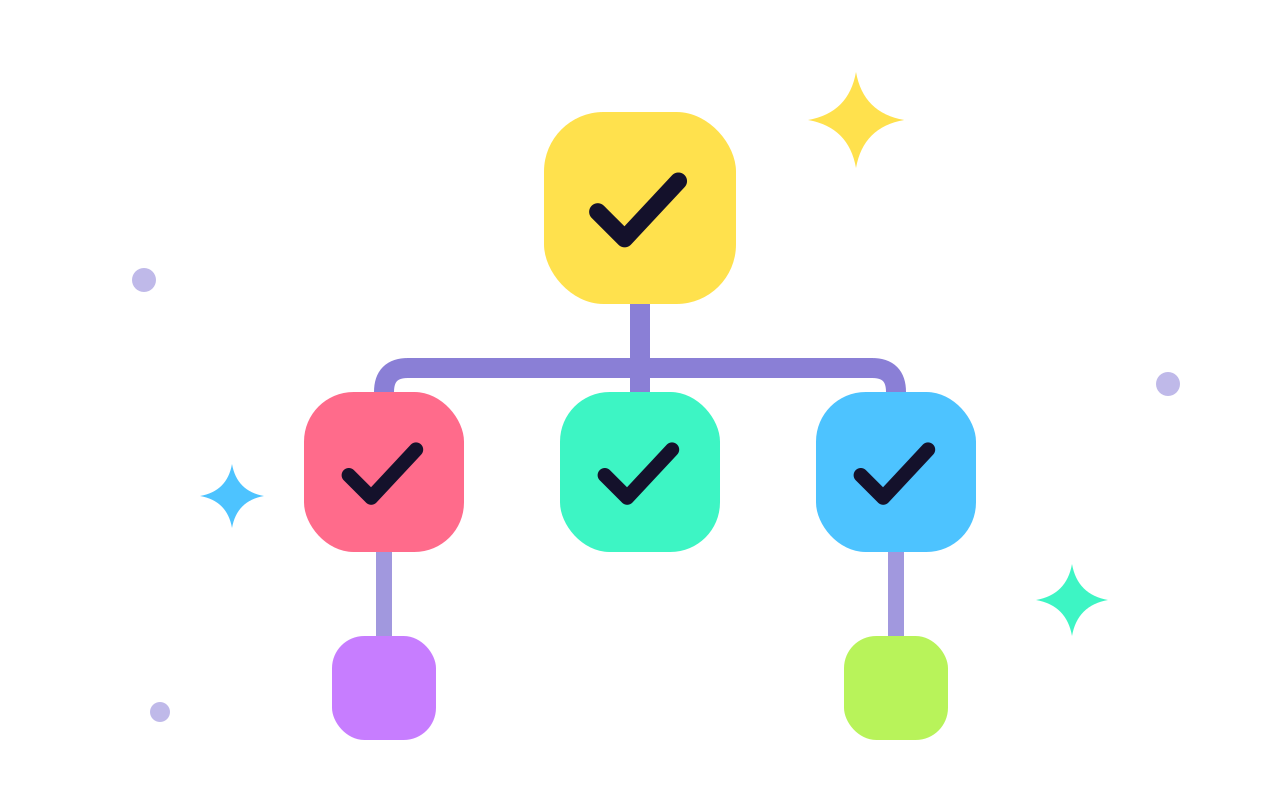
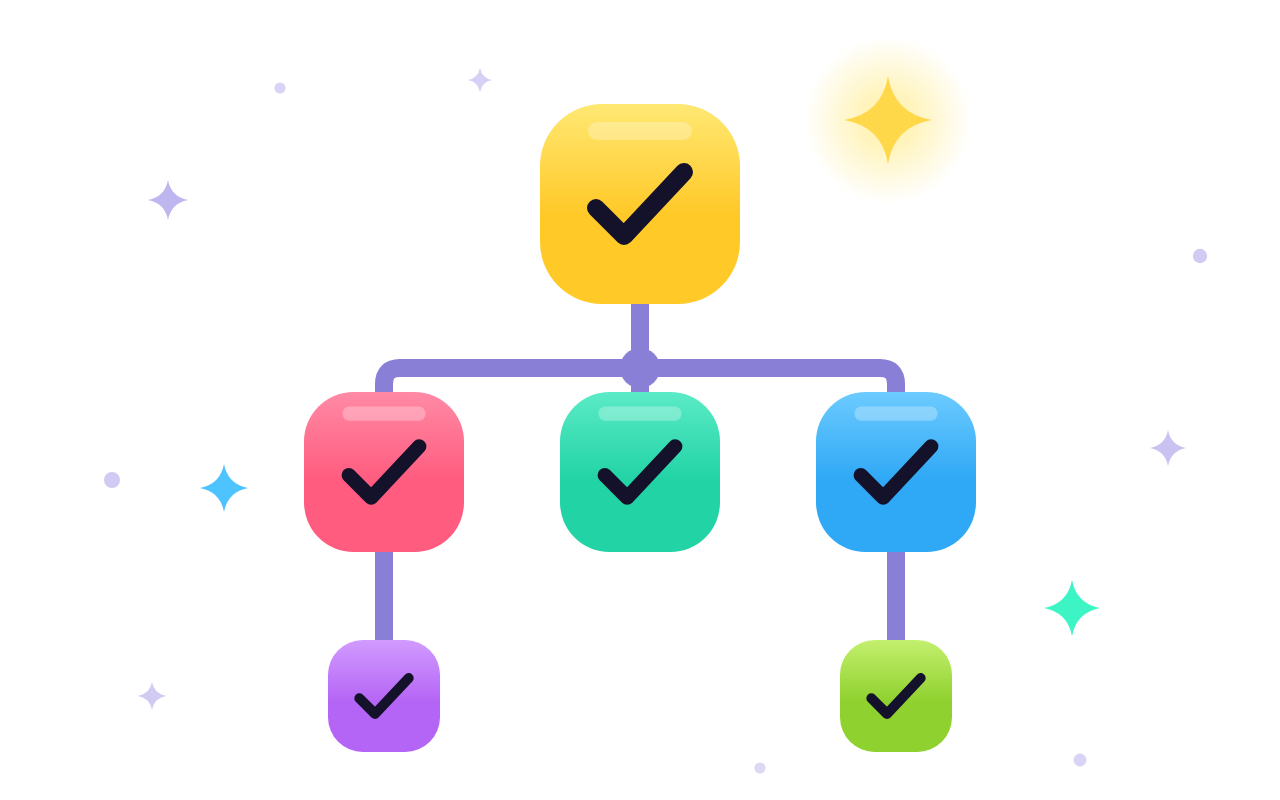
Redraw the artwork in HD and draw it with smooth edges
The empty-state illustrations, the Reports banners, the app icon and the
logo are redrawn: cleaner shapes, lit nodes, and the dots as a proper
starfield with one bright star. The SVG sources live in the brand kit.

The app now shows high-resolution PNGs decoded at the size they're
shown, taking display scaling into account. XAML's own downscaling, and
its SVG renderer, left jagged edges; that already affected the logo and
banner, which were SVG.

diff --git a/Helpers/EmbeddedAssets.cs b/Helpers/EmbeddedAssets.cs
@@ -7,19 +7,16 @@ public static class EmbeddedAssets
 {
     private static Stream? Open(string name) => typeof(EmbeddedAssets).Assembly.GetManifestResourceStream(name);
 
-    /// <summary>Null when there is no such image.</summary>
-    public static BitmapImage? Png(string name)
+    /// <summary>
+    /// The image decoded at <paramref name="width"/> (in view pixels, so the display scale is applied), or null when
+    /// there is no such image. Decoding at the shown size is what keeps the edges smooth: the decoder scales down
+    /// properly, whereas XAML shrinking a large image, and its SVG renderer, both leave jagged edges.
+    /// </summary>
+    public static BitmapImage? Png(string name, double width)
     {
         if (Open(name) is not { } stream) return null;
-        var image = new BitmapImage();
+        var image = new BitmapImage { DecodePixelType = DecodePixelType.Logical, DecodePixelWidth = (int)Math.Ceiling(width) };
         _ = image.SetSourceAsync(stream.AsRandomAccessStream());
-        return image;
-    }
-
-    public static SvgImageSource Svg(string name)
-    {
-        var image = new SvgImageSource();
-        _ = image.SetSourceAsync(Open(name)!.AsRandomAccessStream());
         return image;
     }
 

diff --git a/Views/ReportsPage.xaml.cs b/Views/ReportsPage.xaml.cs
@@ -27,6 +27,7 @@ public sealed partial class ReportsPage : Page
         Banner.Visibility = highContrast ? Visibility.Collapsed : Visibility.Visible;
         PlainHeader.Visibility = highContrast ? Visibility.Visible : Visibility.Collapsed;
 
-        BannerImage.Source = EmbeddedAssets.Svg(ActualTheme == ElementTheme.Light ? "ReportsHeaderLight.svg" : "ReportsHeader.svg");
+        // Shown at most 432 view pixels wide, the width of the settings column.
+        BannerImage.Source = EmbeddedAssets.Png(ActualTheme == ElementTheme.Light ? "ReportsHeaderLight.png" : "ReportsHeader.png", 432);
     }
 }

diff --git a/Views/Controls/IscEmptyState.xaml.cs b/Views/Controls/IscEmptyState.xaml.cs
@@ -19,7 +19,7 @@ public sealed partial class IscEmptyState : UserControl
         set
         {
             _illustration = value;
-            IllustrationImage.Source = EmbeddedAssets.Png($"{value}.png");
+            IllustrationImage.Source = EmbeddedAssets.Png($"{value}.png", IllustrationImage.Width);
             IllustrationImage.Visibility = IllustrationImage.Source is null ? Visibility.Collapsed : Visibility.Visible;
         }
     }

diff --git a/Views/Controls/IscLogo.xaml.cs b/Views/Controls/IscLogo.xaml.cs
@@ -24,13 +24,13 @@ public sealed partial class IscLogo : UserControl
     public IscLogo()
     {
         InitializeComponent();
-        Icon.Source = EmbeddedAssets.Svg("Logo.svg");
         ApplySize();
     }
 
     private void ApplySize()
     {
         Icon.Width = Icon.Height = Size;
+        Icon.Source = EmbeddedAssets.Png("Logo.png", Size);
         Wordmark.FontSize = Size * 0.75;
         Panel.Spacing = Size * 0.3;
     }

diff --git a/Views/DashboardPage.xaml.cs b/Views/DashboardPage.xaml.cs
@@ -14,7 +14,7 @@ public sealed partial class DashboardPage : Page, IReloadablePage
     {
         InitializeComponent();
         ViewModel = App.Services.CreateDashboardViewModel();
-        AllDoneImage.Source = EmbeddedAssets.Png("AllDone.png");
+        AllDoneImage.Source = EmbeddedAssets.Png("AllDone.png", AllDoneImage.Width);
     }
 
     public static Thickness Indent(int depth) => new(depth * 16, 0, 0, 0);
